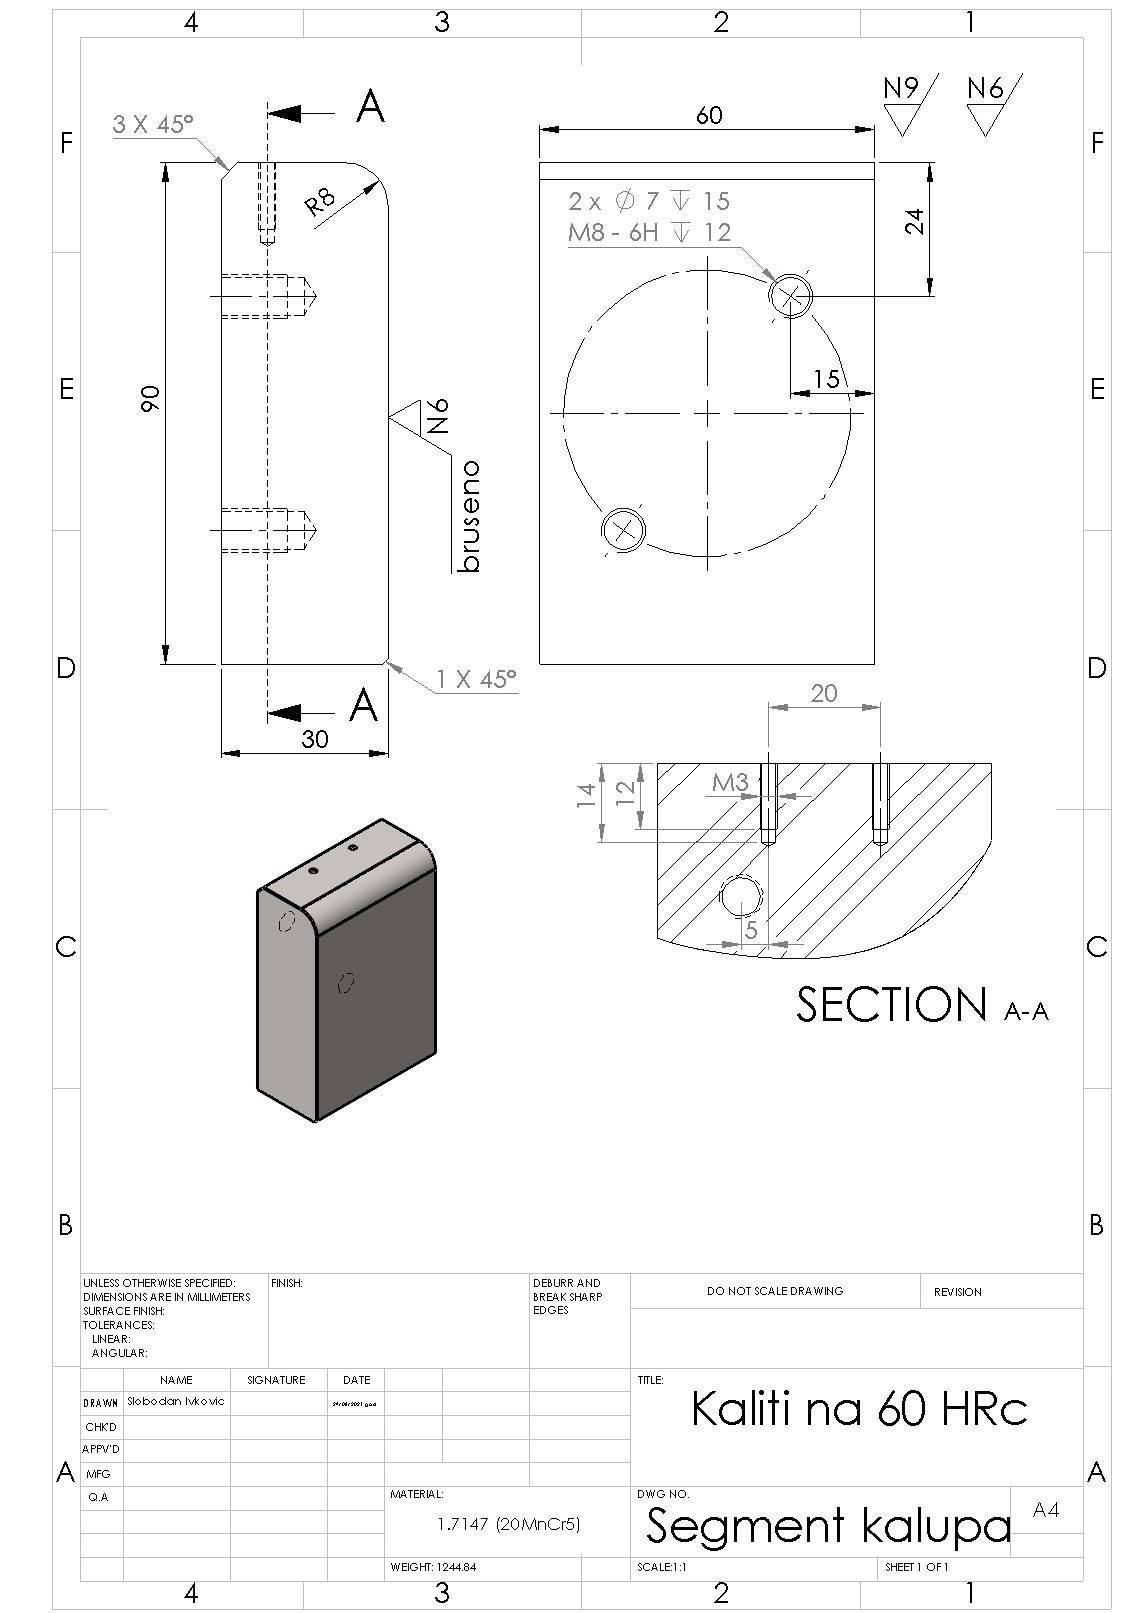
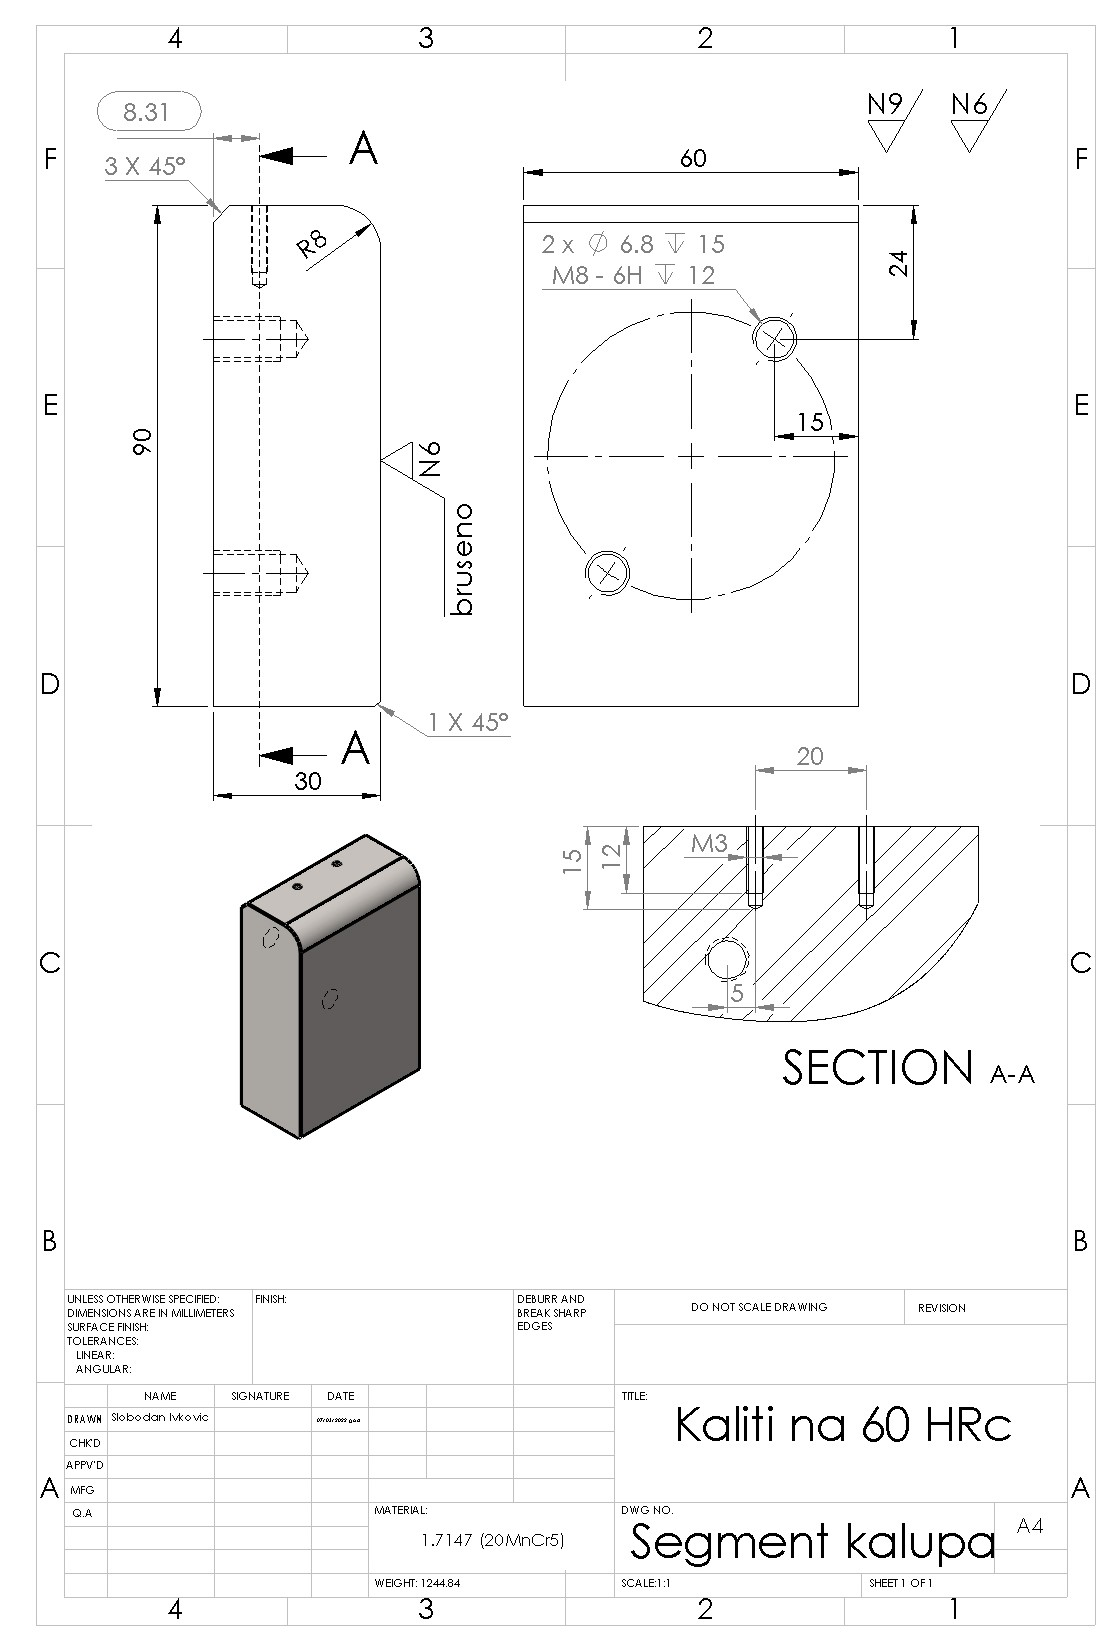
Drawings correction have been made to distinguish differnces between options: dimension precision none and dimensions trailing zeroes remove... I love my son Aleksej Ivkovic Cvijic very very much. I miss you to the farthest star and beyond unponderable in infinity...

diff --git a/tpdwn.html b/tpdwn.html
@@ -238,6 +238,9 @@
                       <li class="nav-item" role="presentation">
                         <button class="nav-link" id="izrada_crteza_gornjeg_na-tab" data-bs-toggle="tab" data-bs-target="#izrada_crteza_gornjeg_na" type="button" role="tab" aria-controls="izrada_crteza_gornjeg_na" aria-selected="false">Израда цртежа</button>
                       </li>
+                      <li class="nav-item" role="presentation">
+                        <button class="nav-link" id="izrada_crteza_gornjeg_na_trailing_zeroes-tab" data-bs-toggle="tab" data-bs-target="#izrada_crteza_gornjeg_na_trailing_zeroes" type="button" role="tab" aria-controls="izrada_crteza_gornjeg_na_trailing_zeroes" aria-selected="false">"Dimensions: trailing zeroes"</button>
+                      </li>
                     </ul>
                     <div class="tab-content" id="gornji_na_TabContent">
                       <div class="tab-pane show active" id="crtez_gornji_na" role="tabpanel" aria-labelledby="crtez_gornji_na-tab">
@@ -250,7 +253,12 @@
                       </div>
                       <div class="tab-pane" id="izrada_crteza_gornjeg_na" role="tabpanel" aria-labelledby="izrada_crteza_gornjeg_na-tab">
                         <div class="card ratio ratio-16x9">
-                          <iframe width="560" height="315" src="https://www.youtube.com/embed/ZjJL2IRnA44" title="YouTube video player" frameborder="0" allow="accelerometer; autoplay; clipboard-write; encrypted-media; gyroscope; picture-in-picture" allowfullscreen></iframe>s
+                          <iframe width="560" height="315" src="https://www.youtube.com/embed/ZjJL2IRnA44" title="YouTube video player" frameborder="0" allow="accelerometer; autoplay; clipboard-write; encrypted-media; gyroscope; picture-in-picture" allowfullscreen></iframe>
+                        </div>
+                      </div>
+                      <div class="tab-pane" id="izrada_crteza_gornjeg_na_trailing_zeroes" role="tabpanel" aria-labelledby="izrada_crteza_gornjeg_na_trailing_zeroes-tab">
+                        <div class="card ratio ratio-16x9">
+                          <iframe width="560" height="315" src="https://www.youtube.com/embed/NRwzyLJbQ5E" title="YouTube video player" frameborder="0" allow="accelerometer; autoplay; clipboard-write; encrypted-media; gyroscope; picture-in-picture" allowfullscreen></iframe>
                         </div>
                       </div>
                     </div>
@@ -277,6 +285,9 @@
                       </li>
                       <li class="nav-item" role="presentation">
                         <button class="nav-link" id="korekcije_u_kontekstu_sklopa-tab" data-bs-toggle="tab" data-bs-target="#korekcije_u_kontekstu_sklopa" type="button" role="tab" aria-controls="korekcije_u_kontekstu_sklopa" aria-selected="false">Корекције у контексту склопа</button>
+                      </li>
+                      <li class="nav-item" role="presentation">
+                        <button class="nav-link" id="korekcije_u_kontekstu_sklopa_trailing_zeroes-tab" data-bs-toggle="tab" data-bs-target="#korekcije_u_kontekstu_sklopa_trailing_zeroes" type="button" role="tab" aria-controls="korekcije_u_kontekstu_sklopa_trailing_zeroes" aria-selected="false">"Dimensions: trailing zeroes"</button>
                       </li>
                     </ul>
                     <div class="tab-content" id="gornji_na_TabContent">
@@ -327,6 +338,11 @@
                           <iframe width="560" height="315" src="https://www.youtube.com/embed/nIVbRNCb5dA" title="YouTube video player" frameborder="0" allow="accelerometer; autoplay; clipboard-write; encrypted-media; gyroscope; picture-in-picture" allowfullscreen></iframe>
                         </div>
                       </div>
+                      <div class="tab-pane" id="korekcije_u_kontekstu_sklopa_trailing_zeroes" role="tabpanel" aria-labelledby="korekcije_u_kontekstu_sklopa_trailing_zeroes-tab">
+                        <div class="card ratio ratio-16x9">
+                          <iframe width="560" height="315" src="https://www.youtube.com/embed/xbcyEVkZG1o" title="YouTube video player" frameborder="0" allow="accelerometer; autoplay; clipboard-write; encrypted-media; gyroscope; picture-in-picture" allowfullscreen></iframe>
+                        </div>
+                      </div>
                     </div>
                   </div>
                 </div>
@@ -349,6 +365,9 @@
                       <li class="nav-item" role="presentation">
                         <button class="nav-link" id="modeliranje_donjeg_na_final-tab" data-bs-toggle="tab" data-bs-target="#modeliranje_donjeg_na_final" type="button" role="tab" aria-controls="modeliranje_donjeg_na_final" aria-selected="false">Израда цртежа</button>
                       </li>
+                      <li class="nav-item" role="presentation">
+                        <button class="nav-link" id="modeliranje_donjeg_na_final_trailing_zeroes-tab" data-bs-toggle="tab" data-bs-target="#modeliranje_donjeg_na_final_trailing_zeroes" type="button" role="tab" aria-controls="modeliranje_donjeg_na_final_trailing_zeroes" aria-selected="false">"Dimensions: trailing zeroes"</button>
+                      </li>
                     </ul>
                     <div class="tab-content" id="donji_na_TabContent">
                       <div class="tab-pane show active" id="crtez_donji_na_finalno" role="tabpanel" aria-labelledby="crtez_donji_na_finalno-tab">
@@ -357,6 +376,11 @@
                       <div class="tab-pane" id="modeliranje_donjeg_na_final" role="tabpanel" aria-labelledby="modeliranje_donjeg_na_final-tab">
                         <div class="card ratio ratio-16x9">
                           <iframe width="560" height="315" src="https://www.youtube.com/embed/7Nu0wIowa2Q" title="YouTube video player" frameborder="0" allow="accelerometer; autoplay; clipboard-write; encrypted-media; gyroscope; picture-in-picture" allowfullscreen></iframe>
+                        </div>
+                      </div>
+                      <div class="tab-pane" id="modeliranje_donjeg_na_final_trailing_zeroes" role="tabpanel" aria-labelledby="modeliranje_donjeg_na_final_trailing_zeroes-tab">
+                        <div class="card ratio ratio-16x9">
+                          <iframe width="560" height="315" src="https://www.youtube.com/embed/l3X3fc-ENvM" title="YouTube video player" frameborder="0" allow="accelerometer; autoplay; clipboard-write; encrypted-media; gyroscope; picture-in-picture" allowfullscreen></iframe>
                         </div>
                       </div>
                     </div>
